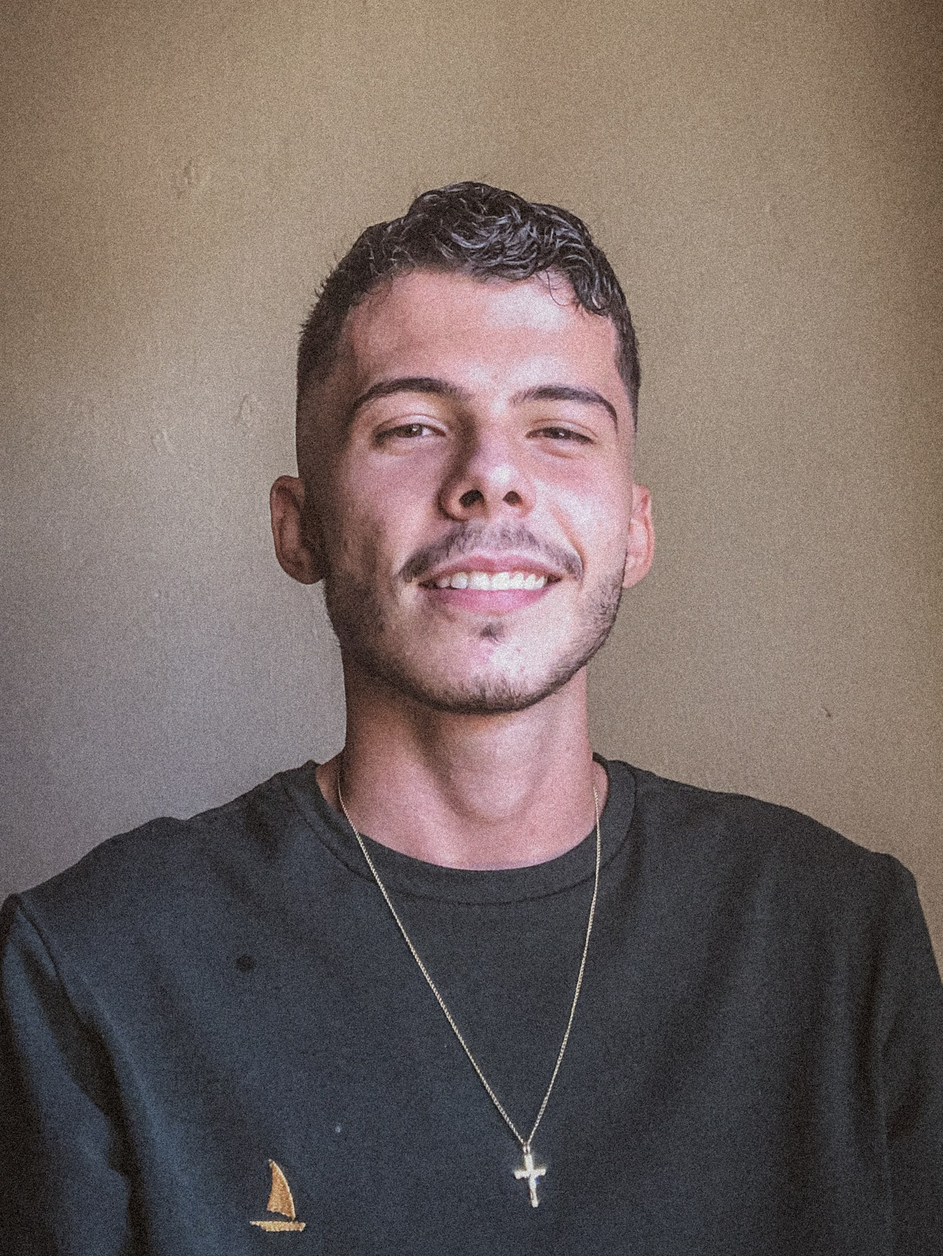
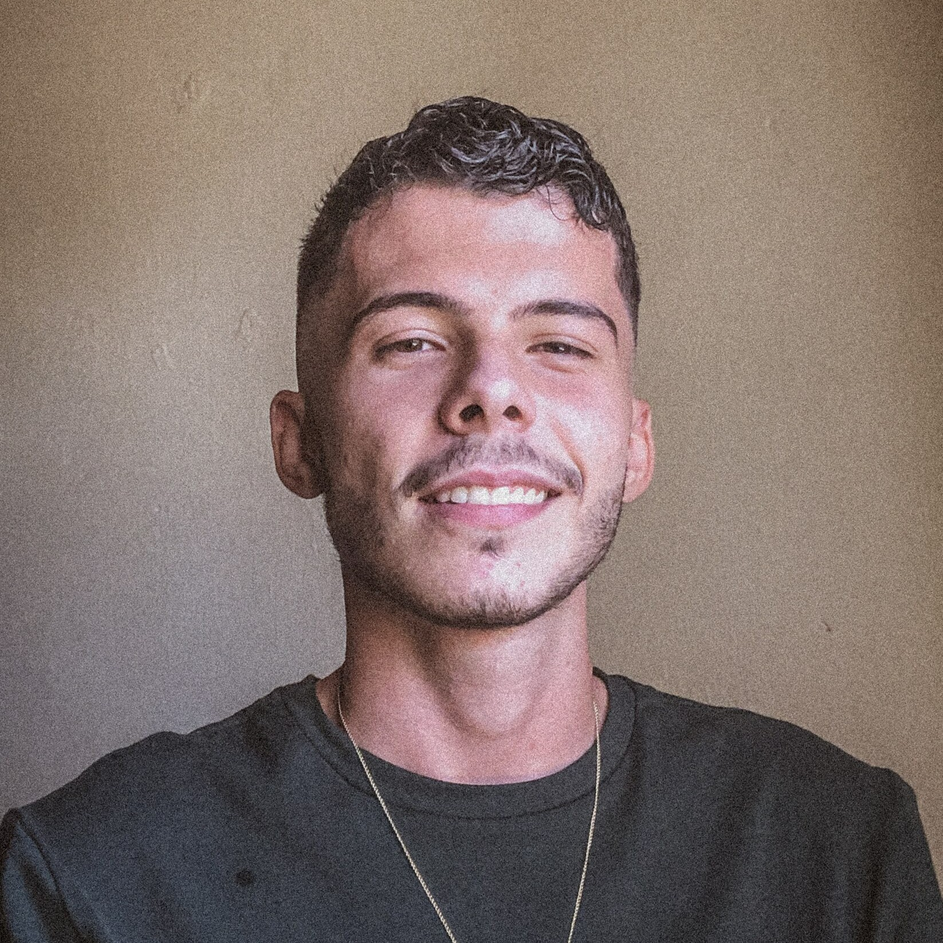
feat:update CSS

diff --git a/src/pages/styles/homepage.css b/src/pages/styles/homepage.css
@@ -37,8 +37,8 @@
 }
 
 .homepage-image-container {
-	width: 370px;
-	height: 370px;
+	width: 300px;
+	height: 300px;
 }
 
 .homepage-image-wrapper {

diff --git a/src/components/homepage/styles/works.css b/src/components/homepage/styles/works.css
@@ -7,7 +7,7 @@
 .work {
 	display: flex;
 	padding-bottom: 40px;
-	width: 400px;
+	width: 100%;
 }
 
 .work-image {
